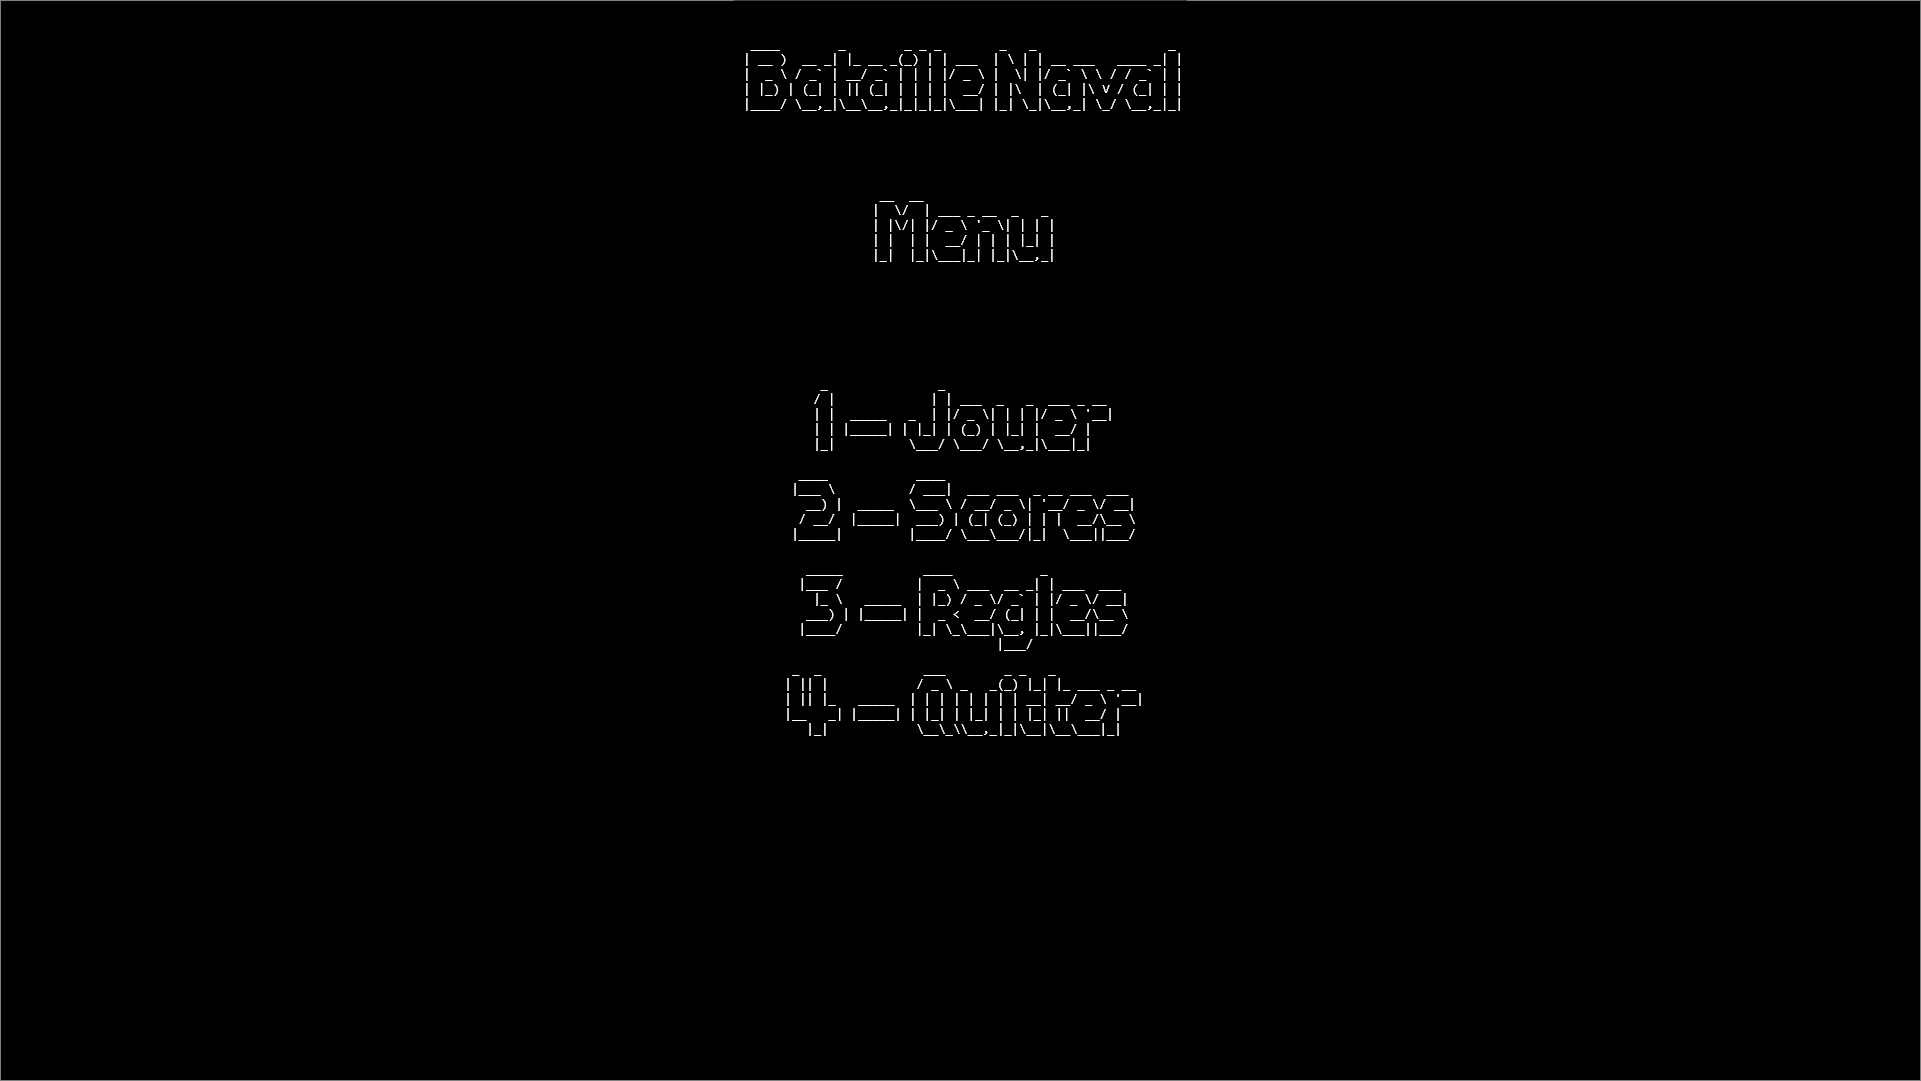
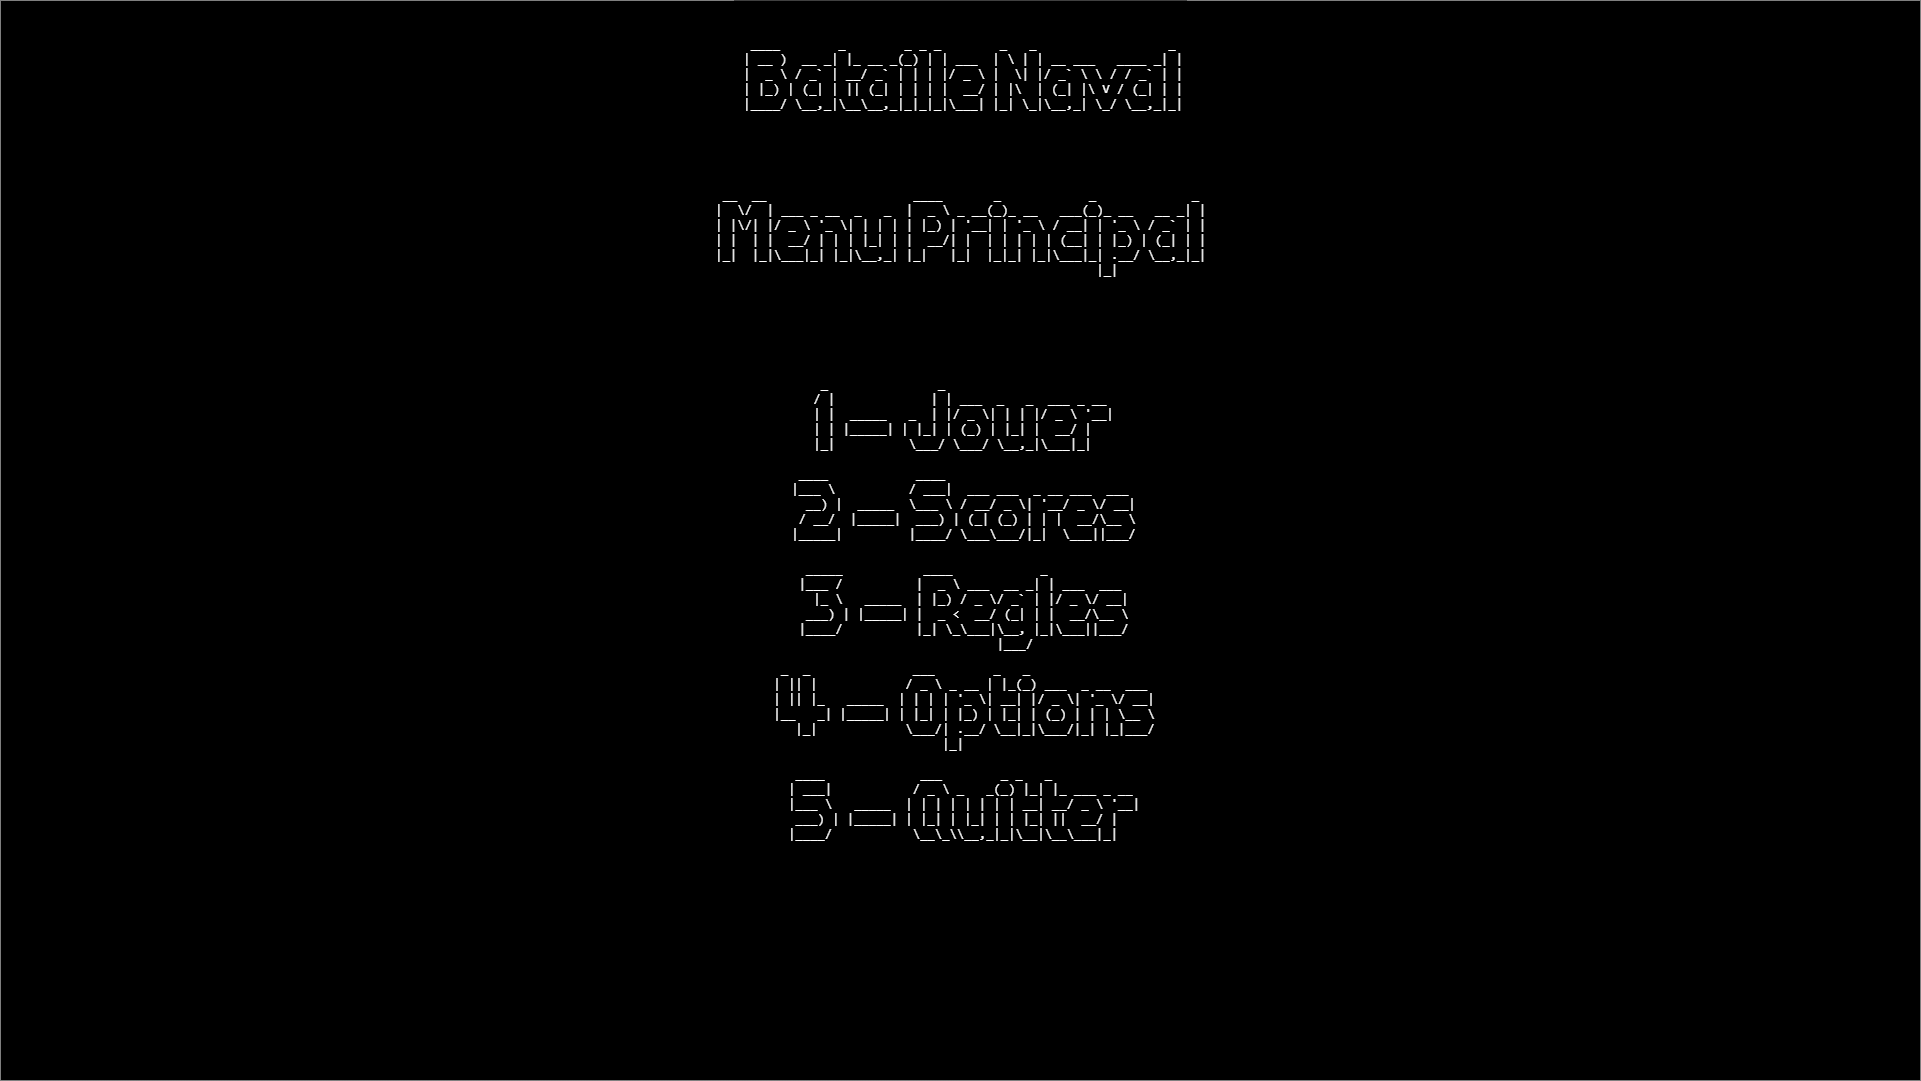
Menu principal amélioré

diff --git a/MyLibrary/Utils.c b/MyLibrary/Utils.c
@@ -1,0 +1,64 @@
+//
+// Created by babs2 on 20.03.2020.
+//
+
+#include <stdio.h>
+#include "Utils.h"
+
+
+void afficherMenuPrincipalGrand(){
+    // Bataile Navale
+    printf("\n"
+           "                                                                                           ____        _        _ _ _        _   _                  _ \n"
+           "                                                                                          | __ )  __ _| |_ __ _(_) | | ___  | \\ | | __ ___   ____ _| |\n"
+           "                                                                                          |  _ \\ / _` | __/ _` | | | |/ _ \\ |  \\| |/ _` \\ \\ / / _` | |\n"
+           "                                                                                          | |_) | (_| | || (_| | | | |  __/ | |\\  | (_| |\\ V / (_| | |\n"
+           "                                                                                          |____/ \\__,_|\\__\\__,_|_|_|_|\\___| |_| \\_|\\__,_| \\_/ \\__,_|_|\n\n\n\n\n\n");
+    //Menu Principal
+    printf(""
+           "                                                                                       __  __                    ____       _            _             _ \n"
+           "                                                                                      |  \\/  | ___ _ __  _   _  |  _ \\ _ __(_)_ __   ___(_)_ __   __ _| |\n"
+           "                                                                                      | |\\/| |/ _ \\ '_ \\| | | | | |_) | '__| | '_ \\ / __| | '_ \\ / _` | |\n"
+           "                                                                                      | |  | |  __/ | | | |_| | |  __/| |  | | | | | (__| | |_) | (_| | |\n"
+           "                                                                                      |_|  |_|\\___|_| |_|\\__,_| |_|   |_|  |_|_| |_|\\___|_| .__/ \\__,_|_|\n"
+           "                                                                                                                                          |_|            \n\n\n\n");
+    //1-Jouer
+    printf(""
+           "                                                                                                    _               _                       \n"
+           "                                                                                                   / |             | | ___  _   _  ___ _ __ \n"
+           "                                                                                                   | |  _____   _  | |/ _ \\| | | |/ _ \\ '__|\n"
+           "                                                                                                   | | |_____| | |_| | (_) | |_| |  __/ |   \n"
+           "                                                                                                   |_|          \\___/ \\___/ \\__,_|\\___|_|   \n\n");
+    //2-Scores
+    printf(""
+           "                                                                                                 ____            ____                          \n"
+           "                                                                                                |___ \\          / ___|  ___ ___  _ __ ___  ___ \n"
+           "                                                                                                  __) |  _____  \\___ \\ / __/ _ \\| '__/ _ \\/ __|\n"
+           "                                                                                                 / __/  |_____|  ___) | (_| (_) | | |  __/\\__ \\\n"
+           "                                                                                                |_____|         |____/ \\___\\___/|_|  \\___||___/\n\n");
+    //3-Regles
+    printf(""
+           "                                                                                                  _____           ____            _           \n"
+           "                                                                                                 |___ /          |  _ \\ ___  __ _| | ___  ___ \n"
+           "                                                                                                   |_ \\   _____  | |_) / _ \\/ _` | |/ _ \\/ __|\n"
+           "                                                                                                  ___) | |_____| |  _ <  __/ (_| | |  __/\\__ \\\n"
+           "                                                                                                 |____/          |_| \\_\\___|\\__, |_|\\___||___/\n"
+           "                                                                                                                             |___/             \n\n");
+    //4-Options
+    printf(""
+           "                                                                                              _  _              ___        _   _                 \n"
+           "                                                                                             | || |            / _ \\ _ __ | |_(_) ___  _ __  ___ \n"
+           "                                                                                             | || |_   _____  | | | | '_ \\| __| |/ _ \\| '_ \\/ __|\n"
+           "                                                                                             |__   _| |_____| | |_| | |_) | |_| | (_) | | | \\__ \\\n"
+           "                                                                                                |_|            \\___/| .__/ \\__|_|\\___/|_| |_|___/\n"
+           "                                                                                                                     |_|                          \n\n");
+    //5-Quitter
+    printf(""
+           "                                                                                                 ____             ___        _ _   _            \n"
+           "                                                                                                | ___|           / _ \\ _   _(_) |_| |_ ___ _ __ \n"
+           "                                                                                                |___ \\   _____  | | | | | | | | __| __/ _ \\ '__|\n"
+           "                                                                                                 ___) | |_____| | |_| | |_| | | |_| ||  __/ |   \n"
+           "                                                                                                |____/           \\__\\_\\\\__,_|_|\\__|\\__\\___|_|   \n\n");
+
+
+}

diff --git a/MyLibrary/menu.c b/MyLibrary/menu.c
@@ -12,24 +12,7 @@
 #include "options.h"
 #include "save.h"
 #include "readscore.h"
-
-
-/*
- * affiche le menu pricipal
- */
-void affichageMenuPrincipal(){
-
-    system("cls");
-
-    printf(" Menu principal\n"
-           "     ---\n");
-
-    printf("  1 - Jouer\n"
-           "  2 - Scores\n"
-           "  3 - Aide\n"
-           "  4 - Options\n"
-           "  5 - Quitter");
-}
+#include "Utils.h"
 
 /*
  * execute une des fonctions dispo
@@ -41,7 +24,8 @@ void menuprincipal(){
 
     //menu principal
     do{
-        affichageMenuPrincipal();
+        system("cls");
+        afficherMenuPrincipalGrand();
 
         //recupere le choix
         fflush(stdin);

diff --git a/MyLibrary/Utils.h b/MyLibrary/Utils.h
@@ -1,0 +1,10 @@
+//
+// Created by babs2 on 20.03.2020.
+//
+
+#ifndef BATAILLE_NAVALE_UTILS_H
+#define BATAILLE_NAVALE_UTILS_H
+
+void afficherMenuPrincipalGrand();
+
+#endif //BATAILLE_NAVALE_UTILS_H
